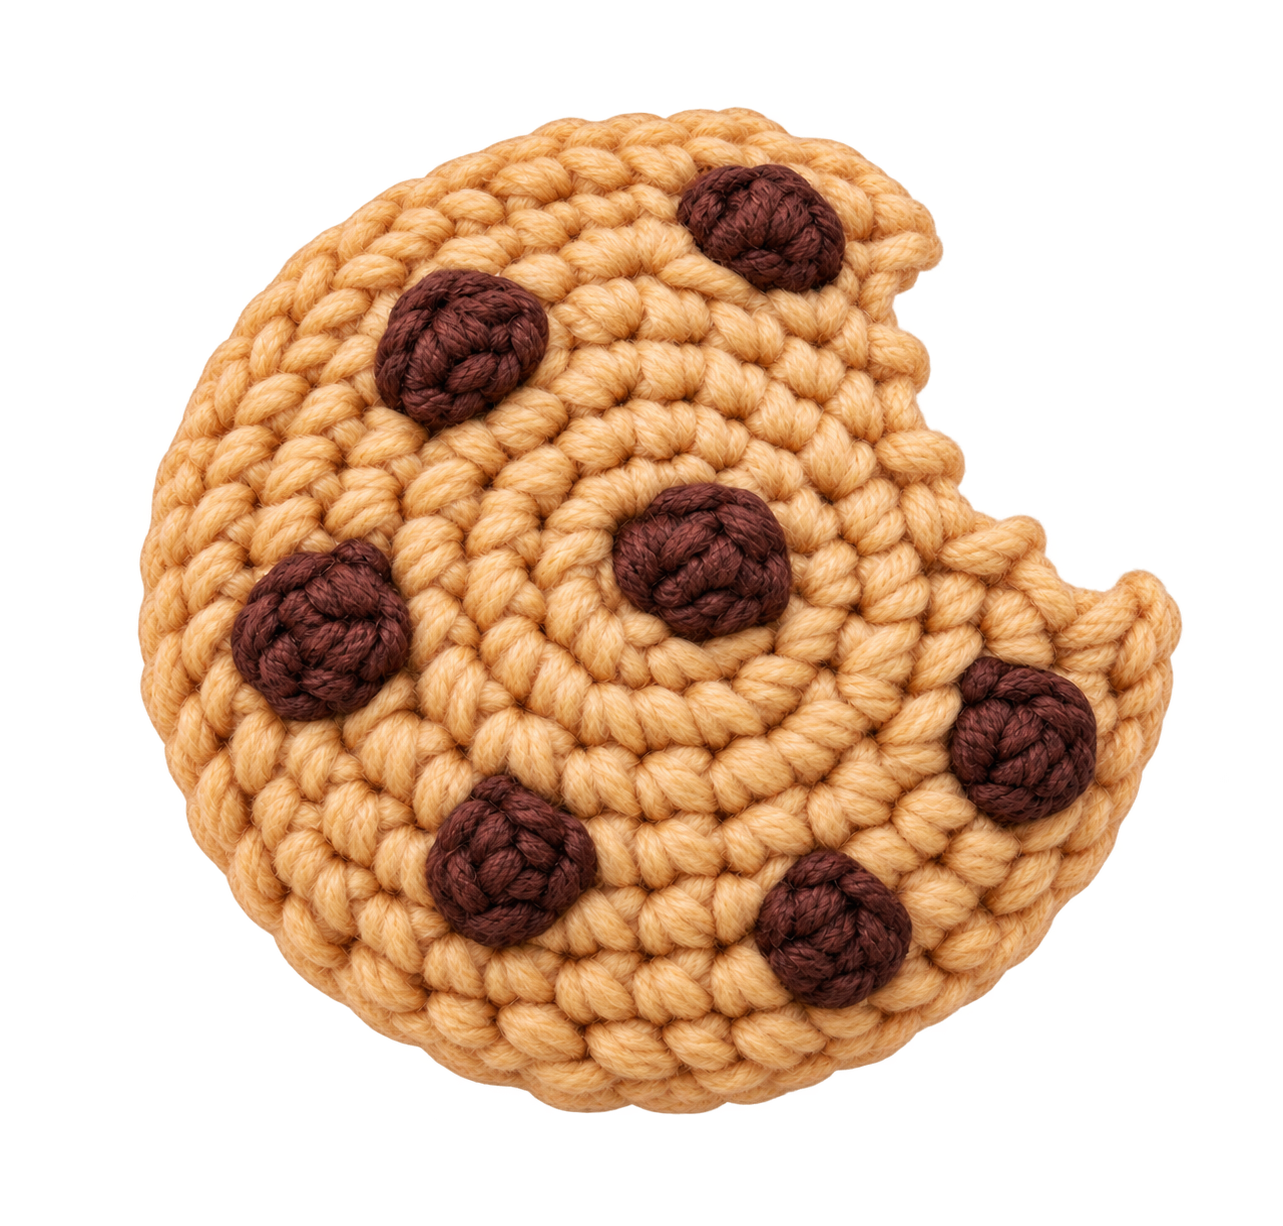
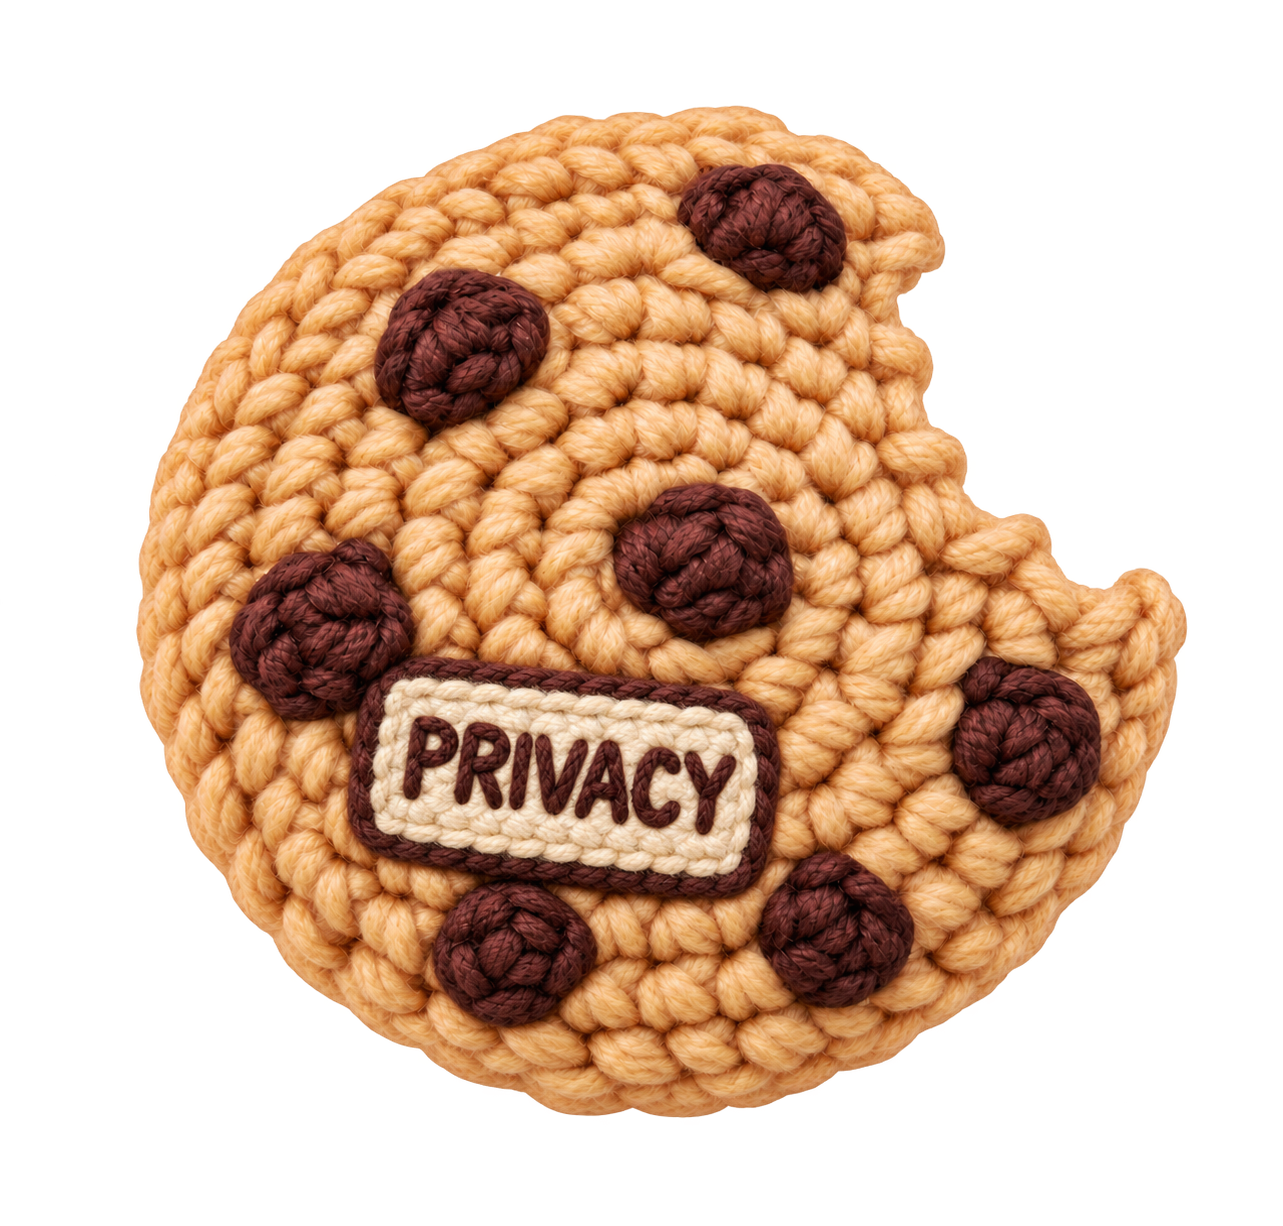
vormgeving aangepast pop-up

diff --git a/privacy.html b/privacy.html
@@ -37,8 +37,7 @@
             cookies worden gebruikt om bezoekers te volgen.
           </p>
         </details>
-      </article>
-      <article>
+
         <details>
           <summary>Waarvoor dient het privacykoekje?</summary>
 
@@ -54,8 +53,7 @@
             verwerkt.
           </p>
         </details>
-      </article>
-      <article>
+
         <details>
           <summary>Hoe worden de lettertypes geladen?</summary>
 
@@ -65,8 +63,7 @@
             geen verbinding te maken met Google Fonts.
           </p>
         </details>
-      </article>
-      <article>
+
         <details>
           <summary>Wat is Digitaal Tuintje?</summary>
 
@@ -81,8 +78,7 @@
             dat hij geen bezoekersgegevens opslaat of gebruikt.
           </p>
         </details>
-      </article>
-      <article>
+
         <details>
           <summary>Welke gegevens verwerkt GitHub Pages?</summary>
 
@@ -110,6 +106,7 @@
           </p>
         </details>
       </article>
+      <img src="assets/Images/koekje-wordt-opgegeten.gif" alt="" />
     </main>
     <footer></footer>
   </body>

diff --git a/assets/style/normal.css b/assets/style/normal.css
@@ -273,7 +273,7 @@ body > aside[aria-label="Privacyinformatie"] summary::-webkit-details-marker {
 /* Grootte van het gesloten koekje */
 body > aside[aria-label="Privacyinformatie"] summary img {
   display: block;
-  width: 6em;
+  width: 8em;
   height: auto;
 }
 
@@ -343,4 +343,15 @@ main details summary {
 main details summary:focus-visible {
   outline: 0.2em solid var(--text-color);
   outline-offset: 0.2em;
+}
+
+/* Alleen het koekjes-gifje op de privacypagina  ik heb dit wel aan chat gevraagd omdat ik niet konden vinden hoe ik het alleen voor dit gifje kon doen.*/
+main > img[src*="koekje-wordt-opgegeten"] {
+  position: fixed;
+  right: 1em;
+  bottom: 1em;
+
+  width: 10em;
+  height: auto;
+  margin: 0;
 }

diff --git a/index.html b/index.html
@@ -155,8 +155,7 @@
       <details>
         <summary>
           <img src="assets/Images/koekje-heel.png" alt="" />
-          <img src="assets/Images/koekje-hap.png" alt="" />
-          Privacy
+          <img src="assets/Images/koekje-hap4.png" alt="" />
         </summary>
         <section>
           <h2>Hoe zit het met mijn gegevens?</h2>
@@ -171,7 +170,6 @@
           <p>
             <a href="privacy.html">Meer informatie</a>
           </p>
-          <p>Klik op het koekje om de pop-up te sluiten.</p>
         </section>
       </details>
     </aside>

diff --git a/README.md b/README.md
@@ -8,6 +8,10 @@
 
 ## Woensdag 30 september
 
+### De vormgeving verder verbeteren
+
+Ik ben nu tevreden met de informatie op mijn privacypagina. De onderwerpen staan erop en bezoekers kunnen zelf kiezen welke uitleg ze willen openen. Daarom ga ik nu verder kijken naar de vormgeving.
+
 ### Meer informatie toeveogen
 
 #### Een aparte privacypagina maken
